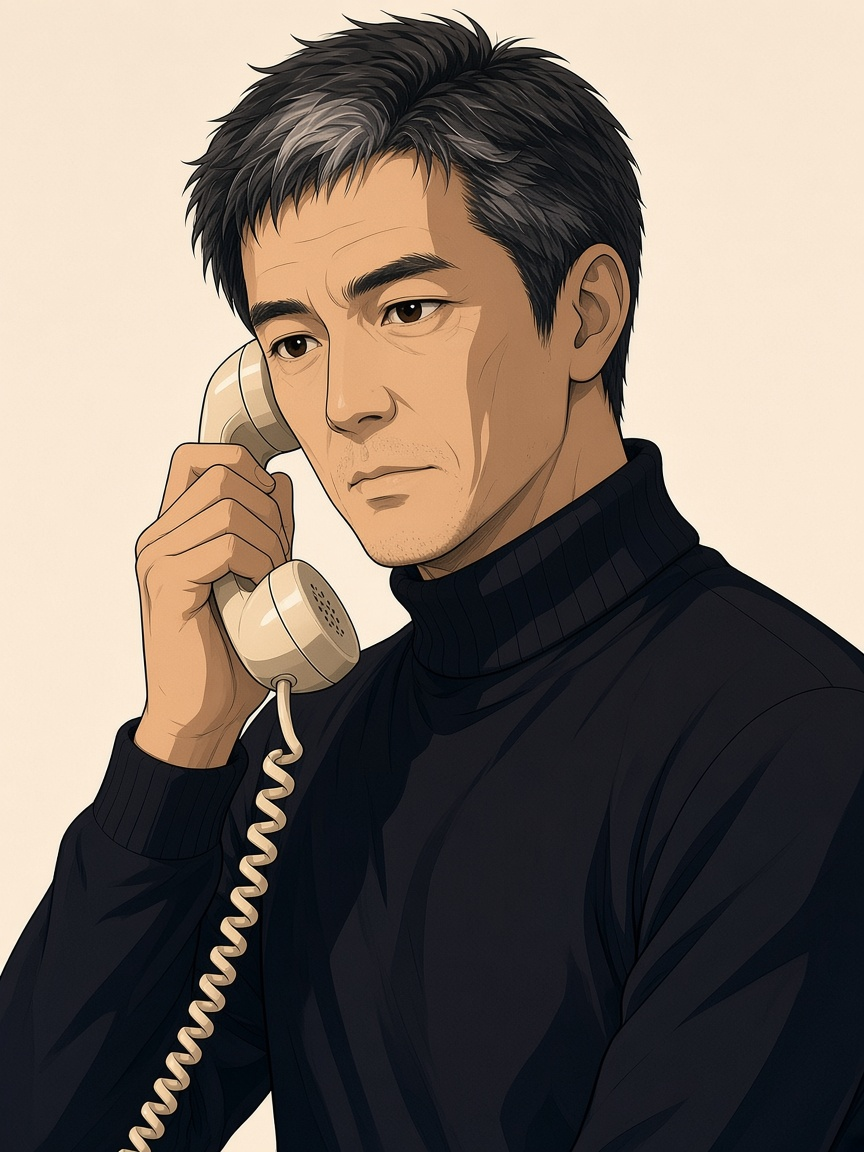
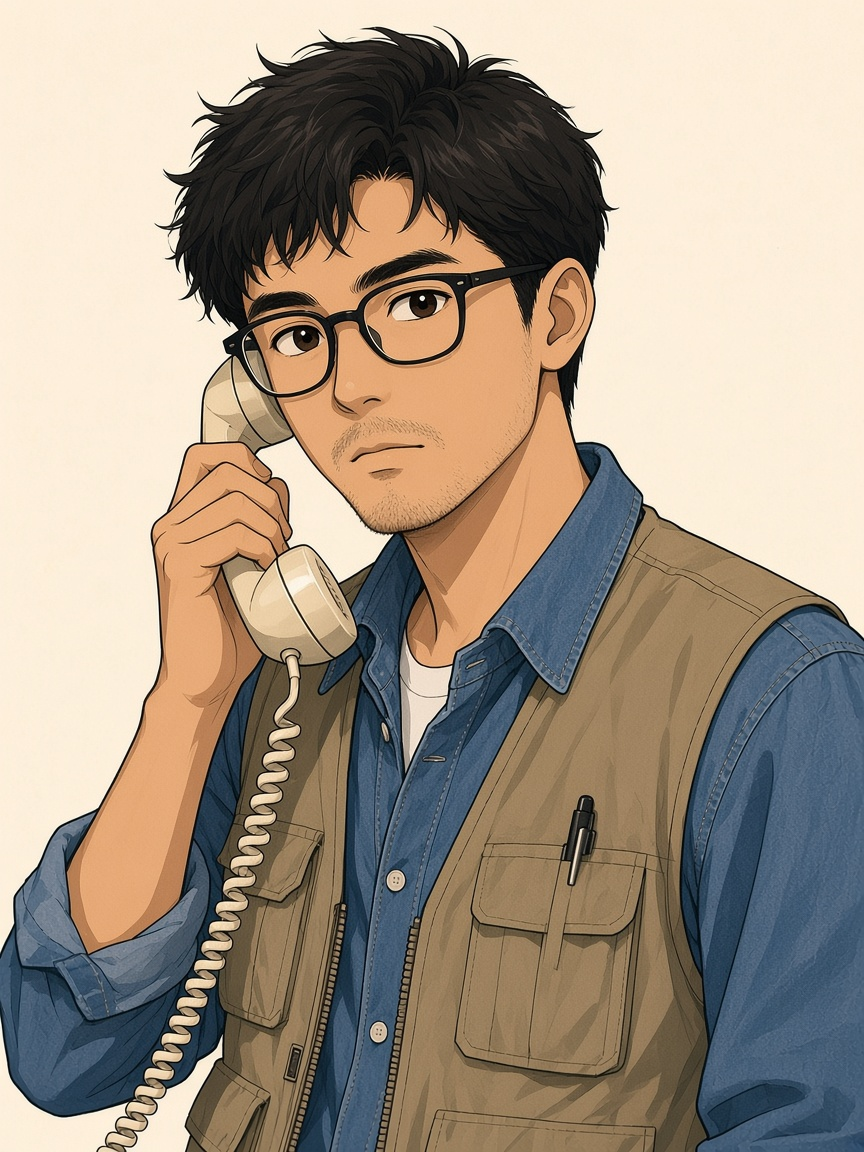
Soft: style-lock Cheung bust pair (?v=19w)
Replace the four-path default and raise_brow busts with the cel-shade
pair and prefer those files in StoryPlay. SAVE and ?v= stay 19w. Soft≠PASS.

diff --git a/index.html b/index.html
@@ -6483,8 +6483,8 @@ const StoryPlay = (()=>{
     if(!speakerId || speakerId==="generic_crew" || speakerId==="extra_unknown") return "";
     const cands = spBustCandidates(speakerId, expression);
     const expr = spNormExpression(expression);
-    /* Soft files win for the six core style-lock busts and the hero raise_brow redo. Cheung and other faces stay on the embedded portrait. */
-    const preferFile = !!SP_CORE_STEM[speakerId] || (speakerId==="awi" && expr==="raise_brow");
+    /* Soft files win for core style-lock busts, the Cheung pair, and the hero raise_brow redo. Other faces stay on the embedded portrait. */
+    const preferFile = !!SP_CORE_STEM[speakerId] || speakerId==="cheung_tsijun" || (speakerId==="awi" && expr==="raise_brow");
     if(!preferFile){
       for(const u of cands){
         if(String(u).indexOf("data:")===0) return u;

diff --git a/assets/story/c1/MANIFEST.md b/assets/story/c1/MANIFEST.md
@@ -43,8 +43,8 @@
 
 | file | expression | emotion map | notes |
 |---|---|---|---|
-| `char_cheung_bust_default.png` | `default` | firm phone (beat 7) | 聽筒＋側光 |
-| `char_cheung_bust_raise_brow.png` | `raise_brow` | firm phone 加強 | 聽筒＋揚眉嚴峻 |
+| `char_cheung_bust_default.png` | `default` | firm phone (beat 7) | **2026-11-05 style-lock**：對齊 `hero_awi`／default 平面 cel；LOOKS 背心＋黑框眼鏡＋牛仔恤＋聽筒；MD5 `920321c6`；bak `*_pre_style_lock_bak` |
+| `char_cheung_bust_raise_brow.png` | `raise_brow` | firm phone 加強 | **2026-11-05 style-lock**：同上身份／服裝；單側挑眉＋額紋；MD5 `5224f3dc`；四路同 MD5；Soft：挑眉峰仍可再加強 |
 
 `firm` 臉 → 用 `raise_brow`（或 `default`）
 
@@ -68,7 +68,7 @@
 ## QC
 
 - [x] 無烘焙亂碼中文／商標
-- [x] 人臉大致跟 ref（awi 髮／外套；ho 眼鏡灰西裝；cheung 高領＋聽筒）
+- [x] 人臉大致跟 ref（awi 髮／外套；ho 眼鏡灰西裝；cheung LOOKS 背心／眼鏡／牛仔＋聽筒（style-lock 換走高領半寫實））
 - Soft notes: hero `raise_brow` **style-lock 2026-11-05**（動畫風；挑眉 Soft nit）；ho `frown` Soft OK；Soft≠PASS（整體）
 - 未產 lan／藍若曦（用戶＋tester 確認）
 
@@ -91,3 +91,13 @@
 - bak：`char_hero_bust_raise_brow_pre_style_lock_bak.png`（舊半寫實 e99f2dd3）
 - Soft：單側挑眉可再加強；Fal／Krea 餘額 0，未做 edit 強化
 - Soft≠PASS｜唔 tip LIVE｜89–92 HOLD｜剪影後掛
+
+## Style-lock Cheung pair 2026-11-05 (Asia/Hong_Kong)
+- `char_cheung_bust_default.png` MD5 `920321c6`（c1／story／dialog／npc 同 MD5）
+- `char_cheung_bust_raise_brow.png` MD5 `5224f3dc`（同上四路）
+- LOOKS：~32；粗黑框眼鏡；卡其多口袋攝影背心；洗水牛仔恤袖口捲；原子筆；聽筒（C1 電話戲）
+- 準繩：`hero_awi.jpg`＋`char_hero_bust_default.png`；換走 DRIFT_REAL 高領半寫實 bak
+- Soft：單側挑眉仍可再加強；原子筆數量偏 1 支；略偏 modern polished anime 線（仍平面 2D）
+- 身份 jpg `assets/npc_cheung.jpg` 仍係高領較年長記帳，本輪唔改、唔再開圖
+- Soft≠PASS｜唔 tip LIVE｜唔 wake iOS｜89–92 HOLD｜剪影後掛
+- Pack：`/workspace/star-volunteer-web-style-lock-cheung.tar.gz`

diff --git a/assets/story/core/MANIFEST.md b/assets/story/core/MANIFEST.md
@@ -6,7 +6,7 @@
 > **Style lock（HARD · 用戶 2026-11-05）：** 平面 2D anime／VN cel-shade；清黑線；大眼高光；硬邊陰影；禁半寫實／相片膚／細密髮絲／softbox  
 > **狀態：** CORE 六角 **style-lock redo**（default＋smile＋frown ×6＝18 PNG）已安裝；**Soft≠PASS**；唔 tip LIVE；**1989–1992 HOLD**；silhouettes 後掛  
 > **本輪：** 只合 live 18（bak 省略，GD 允許）。`?v=` 仍 `19w`。SAVE `starVolunteer_map_v19w`。  
-> StoryPlay 先 probe `assets/story/core/{id}_bust_{expr}.png?v=19w`；六個 core stem 優先用檔案 bust（張子駿等其餘臉仍用內嵌肖像）。
+> StoryPlay 先 probe `assets/story/core/{id}_bust_{expr}.png?v=19w`；六個 core stem 優先用檔案 bust。張子駿 `default`／`raise_brow` 亦優先用 `char_cheung_bust_*.png?v=19w`（四路同 MD5）。其餘臉仍用內嵌肖像。
 
 ## Style-lock MD5（2026-11-05）
 

diff --git a/assets/STYLE_CANON.md b/assets/STYLE_CANON.md
@@ -25,3 +25,11 @@
 - Refs：`hero_awi.jpg`＋`story/c1/char_hero_bust_default.png`（＋npc identity when present）
 - 本 Soft tip 只合 live 18 PNG（bak 省略，GD 允許）；`?v=` 仍 `19w`
 - Soft≠PASS；唔 tip LIVE；89–92 HOLD；silhouettes 後掛
+
+## Style-lock Cheung pair（2026-11-05 Asia/Hong_Kong）
+
+- 已 redo：`char_cheung_bust_default.png` MD5 `920321c6`、`char_cheung_bust_raise_brow.png` MD5 `5224f3dc`（c1／story／dialog／npc 四路同 MD5）
+- LOOKS：粗黑框眼鏡、卡其多口袋攝影背心、洗水牛仔恤、聽筒。準繩仍係 `hero_awi.jpg`＋`char_hero_bust_default.png`
+- bak：`assets/story/c1/char_cheung_bust_{default,raise_brow}_pre_style_lock_bak.png`（舊高領半寫實）
+- 身份 jpg `assets/npc_cheung.jpg` 仍係高領較年長記帳，本輪唔改
+- Soft≠PASS；唔 tip LIVE；`?v=` 仍 `19w`；89–92 HOLD；silhouettes 後掛
